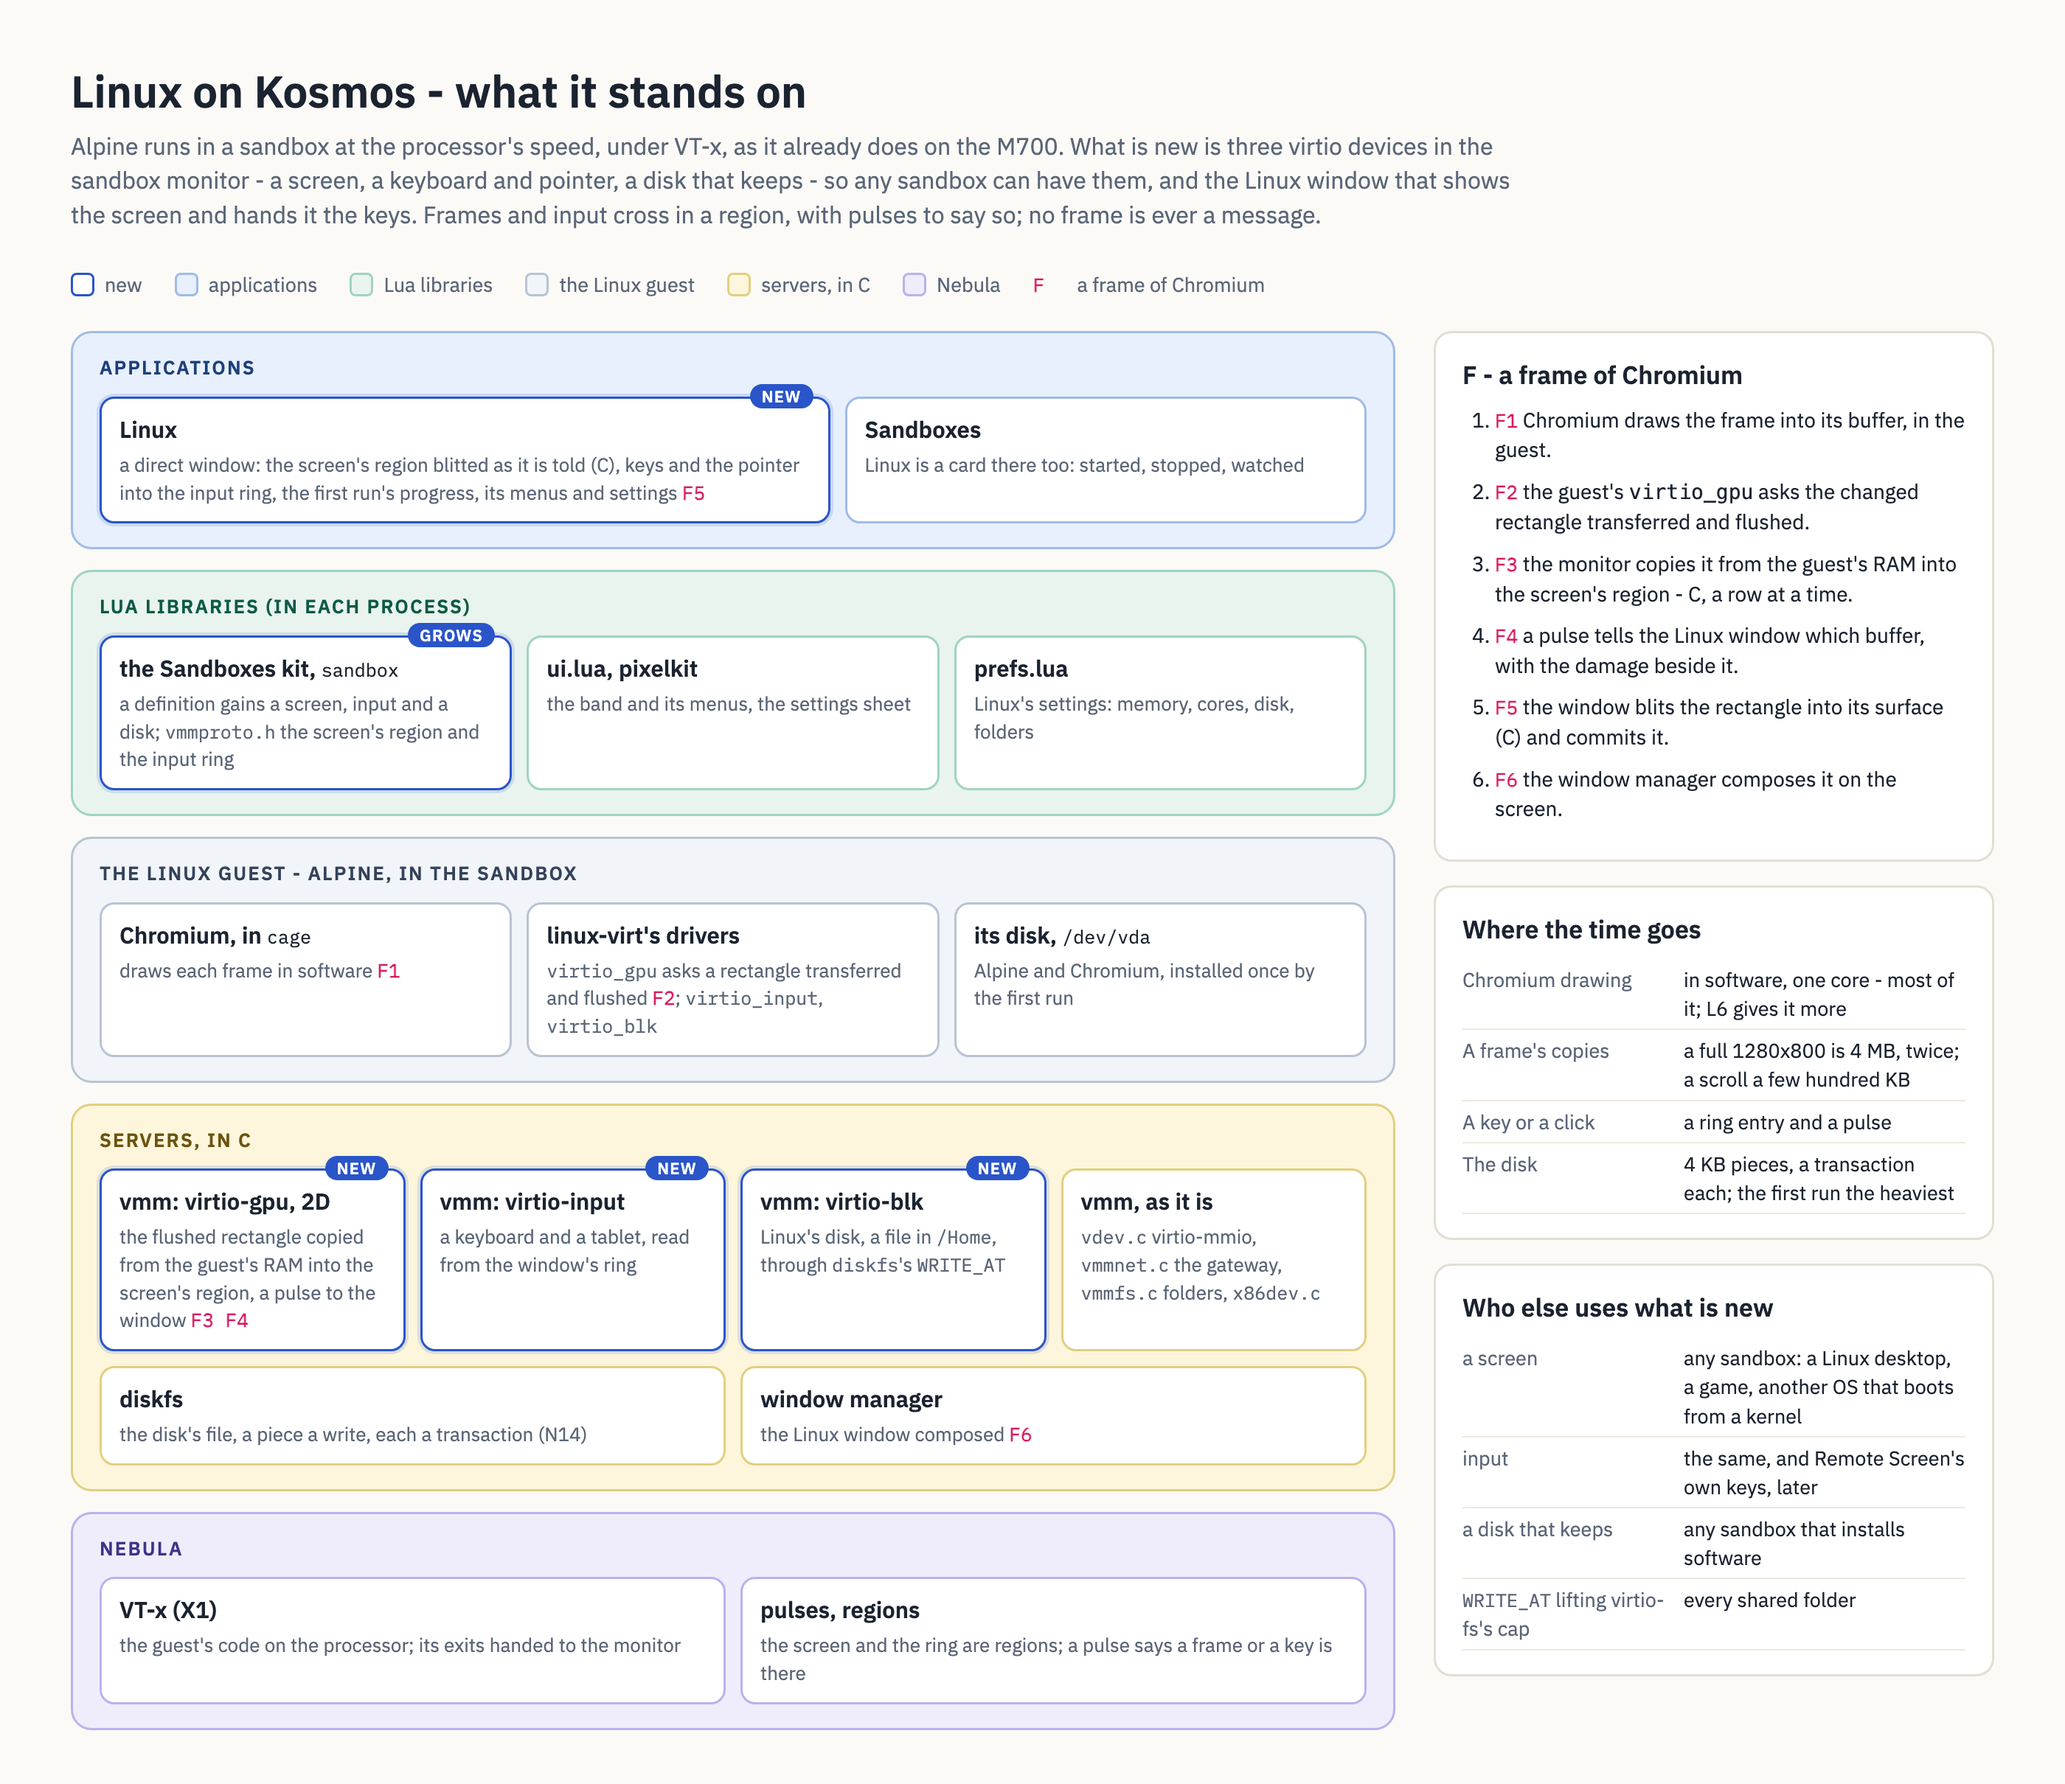
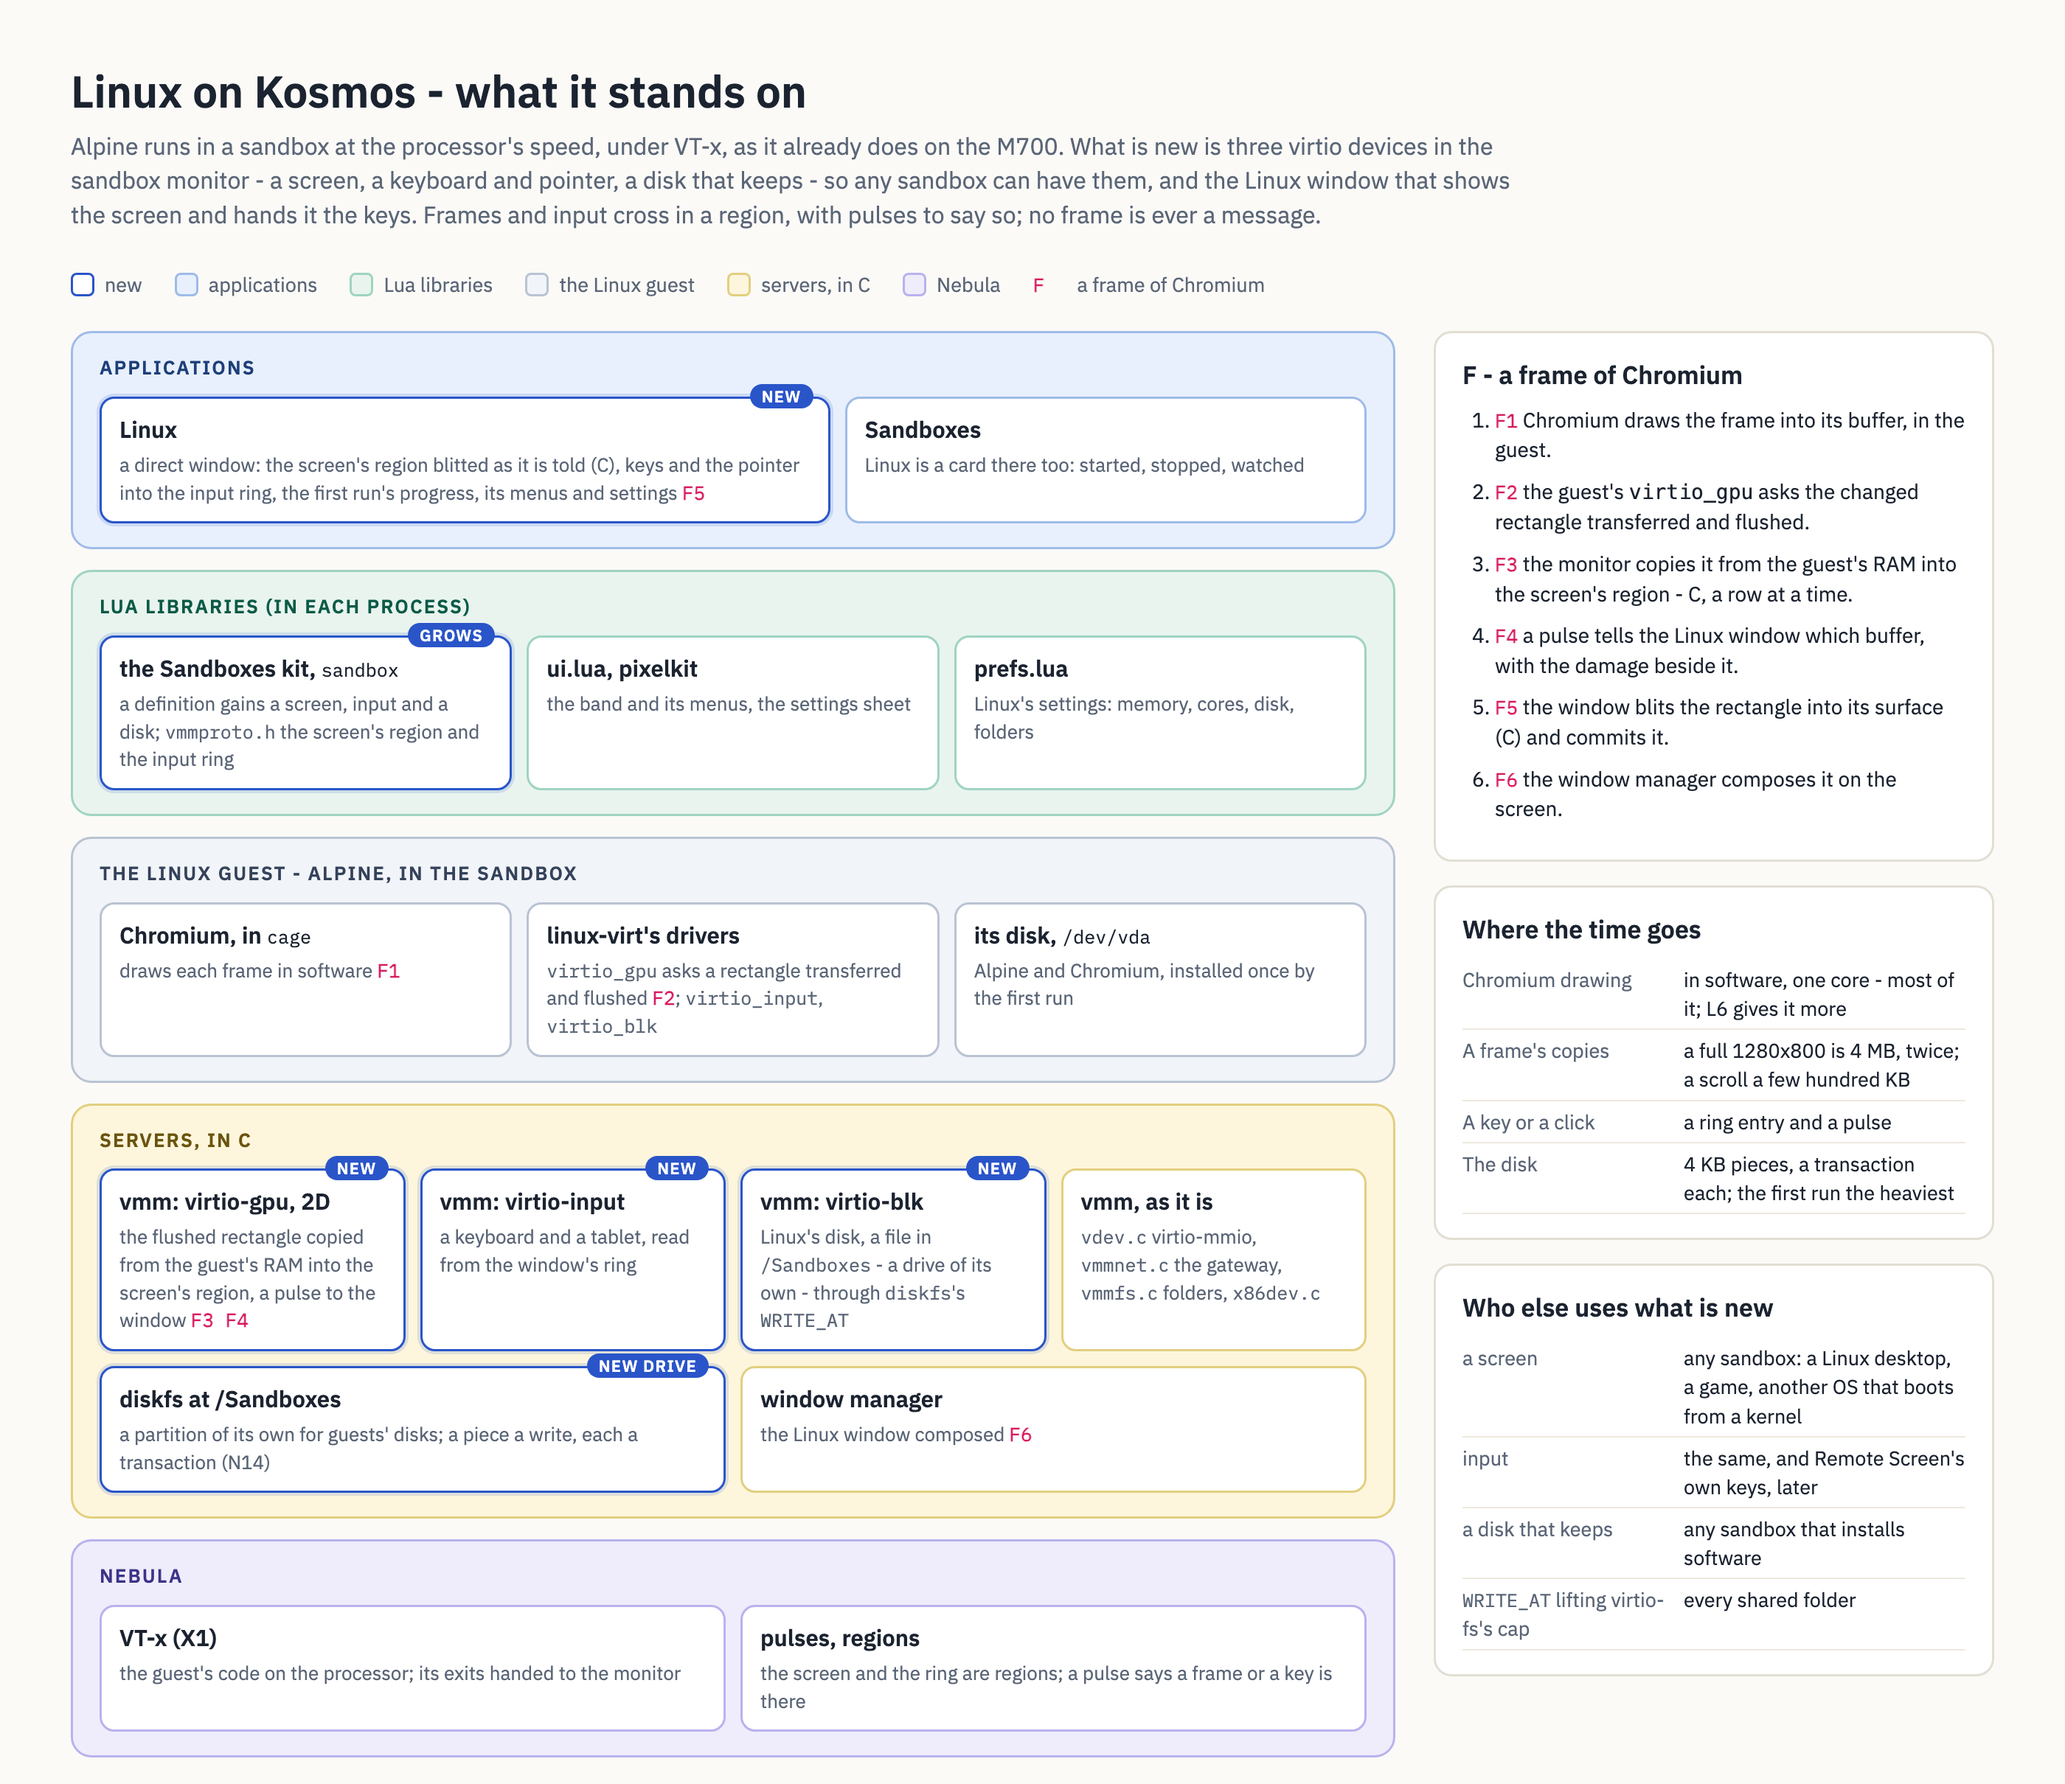
Linux on Kosmos: guests' disks on a drive of their own, /Sandboxes - Diego's idea

diff --git a/docs/linux.html b/docs/linux.html
@@ -138,13 +138,13 @@ code { font-family: var(--mono); font-size: 13px; }
   <div class="setup"><div class="card">
     <h3>Setting Linux up</h3>
     <p class="d">Once: Alpine and Chromium onto Linux's own disk, through Kosmos's network. After this it starts in a few seconds, where it was left.</p>
-    <div class="step"><span class="k">&#10003;</span><span>Linux's disk made</span><span style="color:#6b7484">4 GB, /Home/Sandboxes/Disks</span></div>
+    <div class="step"><span class="k">&#10003;</span><span>Linux's disk made</span><span style="color:#6b7484">4 GB, in /Sandboxes</span></div>
     <div class="step"><span class="k">&#10003;</span><span>Alpine installed</span><span style="color:#6b7484">58 MB</span></div>
     <div class="step"><span>&#8230;</span><span>Chromium and its fonts</span><span style="color:#6b7484">412 of 640 MB</span><div class="bar"><i></i></div></div>
     <div class="step"><span class="n">&#9675;</span><span class="n">Downloads shared, the browser set to start</span><span></span></div>
   </div></div>
 </div></div>
-<p class="cap">Everything Linux installs comes through Kosmos's own network - the sandbox's gateway - and goes onto a disk of its own, a file in <code>/Home</code>. Nothing is installed on Kosmos itself.</p>
+<p class="cap">Everything Linux installs comes through Kosmos's own network - the sandbox's gateway - and goes onto a disk of its own, a file in <code>/Sandboxes</code>, a drive kept for guests' disks so none of them can fill <code>/Home</code>. Nothing is installed on Kosmos itself.</p>
 
 <h2>Its settings</h2>
 <div class="scroller"><div class="win" style="width:760px">
@@ -164,7 +164,7 @@ code { font-family: var(--mono); font-size: 13px; }
 
 <h2>For Diego to decide</h2>
 <div class="q"><b>1. Chromium alone, or a Linux desktop.</b> Chromium alone (<code>cage</code>) is the quickest to a browser and the lightest; a desktop (Xfce) gives a terminal and Linux's own applications. Recommended: Chromium alone first, a desktop as a choice in settings later.</div>
-<div class="q"><b>2. Where Linux's disk lives.</b> Alpine with Chromium is 600-800 MB, and 2-4 GB gives it room; the M700's <code>/Home</code> on the stick has 1.8 GB free. A bigger <code>/Home</code> (the stick made again with a 16 GB home - recommended), the M700's internal drive formatted as Kosmos's, or a disk that grows on the stick until the stick runs out.</div>
+<div class="q"><b>2. Where Linux's disk lives.</b> Diego's idea: <b>a drive of its own, <code>/Sandboxes</code></b> - a third partition in the stick's free space (the Kingston is 128 GB; <code>/Home</code> uses 2), formatted as Kosmos's, every sandbox's disk a file in it. <code>/Home</code> untouched and never filled by a guest; as large as the stick allows. Recommended, at 32 GB.</div>
 <div class="q"><b>3. How much of the machine.</b> Recommended: 2 GB of memory and one core until Linux can use more.</div>
 </div>
 </body>

diff --git a/docs/linux-architecture.html b/docs/linux-architecture.html
@@ -99,11 +99,11 @@
       <div class="row" style="grid-template-columns:1fr 1fr 1fr 1fr">
         <div class="box new"><span class="tag">NEW</span><b>vmm: virtio-gpu, 2D</b><p>the flushed rectangle copied from the guest's RAM into the screen's region, a pulse to the window <span class="f">F3 F4</span></p></div>
         <div class="box new"><span class="tag">NEW</span><b>vmm: virtio-input</b><p>a keyboard and a tablet, read from the window's ring</p></div>
-        <div class="box new"><span class="tag">NEW</span><b>vmm: virtio-blk</b><p>Linux's disk, a file in <code>/Home</code>, through <code>diskfs</code>'s <code>WRITE_AT</code></p></div>
+        <div class="box new"><span class="tag">NEW</span><b>vmm: virtio-blk</b><p>Linux's disk, a file in <code>/Sandboxes</code> - a drive of its own - through <code>diskfs</code>'s <code>WRITE_AT</code></p></div>
         <div class="box"><b>vmm, as it is</b><p><code>vdev.c</code> virtio-mmio, <code>vmmnet.c</code> the gateway, <code>vmmfs.c</code> folders, <code>x86dev.c</code></p></div>
       </div>
       <div class="row" style="grid-template-columns:1fr 1fr;margin-top:10px">
-        <div class="box"><b>diskfs</b><p>the disk's file, a piece a write, each a transaction (N14)</p></div>
+        <div class="box new"><span class="tag">NEW DRIVE</span><b>diskfs at /Sandboxes</b><p>a partition of its own for guests' disks; a piece a write, each a transaction (N14)</p></div>
         <div class="box"><b>window manager</b><p>the Linux window composed <span class="f">F6</span></p></div>
       </div>
     </div>

diff --git a/docs/linux.md b/docs/linux.md
@@ -65,7 +65,8 @@ paints and hands it the window's keys and pointer.
 | Its devices' transport | virtio-mmio (`vdev.c`), as the folders' and the network's | no |
 | **A screen**: the guest draws, the monitor shows | **virtio-gpu, 2D**, in `vmm`: resources in the guest's RAM, transferred into a region the window can see, flushes said as damage | **new, in vmm** |
 | **Keyboard and pointer** | **virtio-input**: a keyboard and a tablet (absolute), fed from a ring the window writes | **new, in vmm** |
-| **A disk that keeps** | **virtio-blk**, backed by a file in `/Home` through `diskfs` - read into a region, written with `DISK_OP_WRITE_AT` (N14's, 0.11.237), a piece a request | **new, in vmm** |
+| **A disk that keeps** | **virtio-blk**, backed by a file in `/Sandboxes` - a drive of its own (question 2) - through `diskfs`: read into a region, written with `DISK_OP_WRITE_AT` (N14's, 0.11.237), a piece a request | **new, in vmm** |
+| **`/Sandboxes`, a drive for guests' disks** | a partition of its own on the stick, a second `diskfs`, mounted beside `/Home` | **new** |
 | The network | virtio-net and the gateway (`vmmnet.c`, S4) | no |
 | Folders of `/Home` | virtio-fs (`vmmfs.c`, S3) - its 16 MB write cap lifted with `WRITE_AT` | grows |
 | Starting, stopping, a definition | the Sandboxes kit and `sandbox`, `vmmproto.h` | grows: a screen's region and an input ring |
@@ -120,8 +121,9 @@ ring. Then each step is tried on the M700 before the next, as X1-X3 were.
 
 ## Steps
 
-1. **L1 - a disk that keeps**: virtio-blk on a file in `/Home`; a file
-   written in the guest, the sandbox stopped and started, the file there.
+1. **L1 - a disk that keeps**: `/Sandboxes` made and mounted, and
+   virtio-blk on a file in it; a file written in the guest, the sandbox
+   stopped and started, the file there.
 2. **L2 - a screen**: virtio-gpu 2D and the Linux window showing it - the
    guest's console drawn in the window.
 3. **L3 - keyboard and pointer**: virtio-input from the window - typed into
@@ -142,11 +144,16 @@ ring. Then each step is tried on the M700 before the next, as X1-X3 were.
    settings later.
 2. **Where Linux's disk lives.** Alpine with Chromium is 600-800 MB, and
    2-4 GB gives it room. The M700's `/Home`, on the stick, has 1.8 GB free.
-   The choices: **a bigger `/Home`** - the stick made again with a larger
-   home partition (the Kingston sticks are 128 GB) - which is a stick
-   written; **the M700's internal drive** - which Kosmos would have to
-   format as its own; or **a disk image on the stick that grows as Linux
-   writes it**, starting small and capped where the stick runs out.
-   Recommended: **a bigger `/Home`**, 16 GB, written once.
+   **Diego's idea, the same evening: a drive of its own, `/Sandboxes`** -
+   "what if instead /home we crate a new /Sandboxes drive with virtual
+   machibes disks?". A third partition in the stick's free space (the
+   Kingston is 128 GB, of which `/Home` uses 2), formatted kfs, served by a
+   second `diskfs` and mounted at `/Sandboxes`, each sandbox's disk a file
+   in it - `/Sandboxes/linux.img`. `/Home` is untouched and cannot be
+   filled by a guest; the drive is as large as the stick allows, shows in
+   Tracker as a drive of its own, and could move to the M700's internal
+   drive later with nothing above it changing. **Recommended**, at 32 GB.
+   The other choices were a bigger `/Home` (the stick written again), the
+   internal drive formatted as Kosmos's, or a disk that grows in `/Home`.
 3. **How much of the machine**: memory and cores. Recommended: 2 GB of the
    M700's 8, one core until L6.
